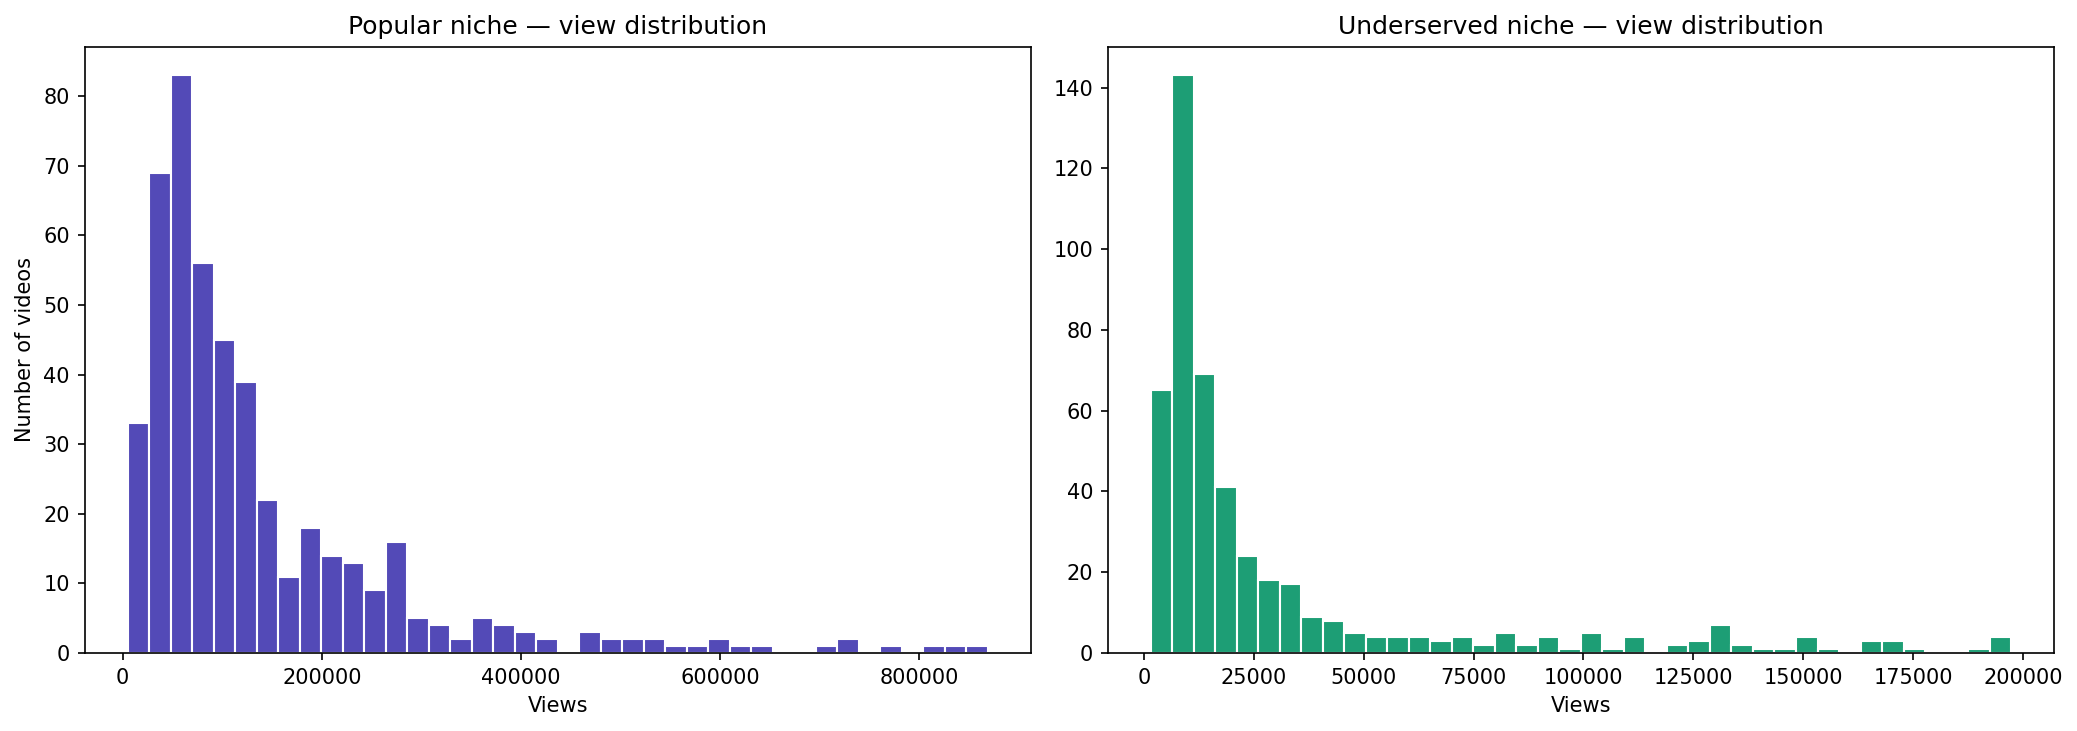
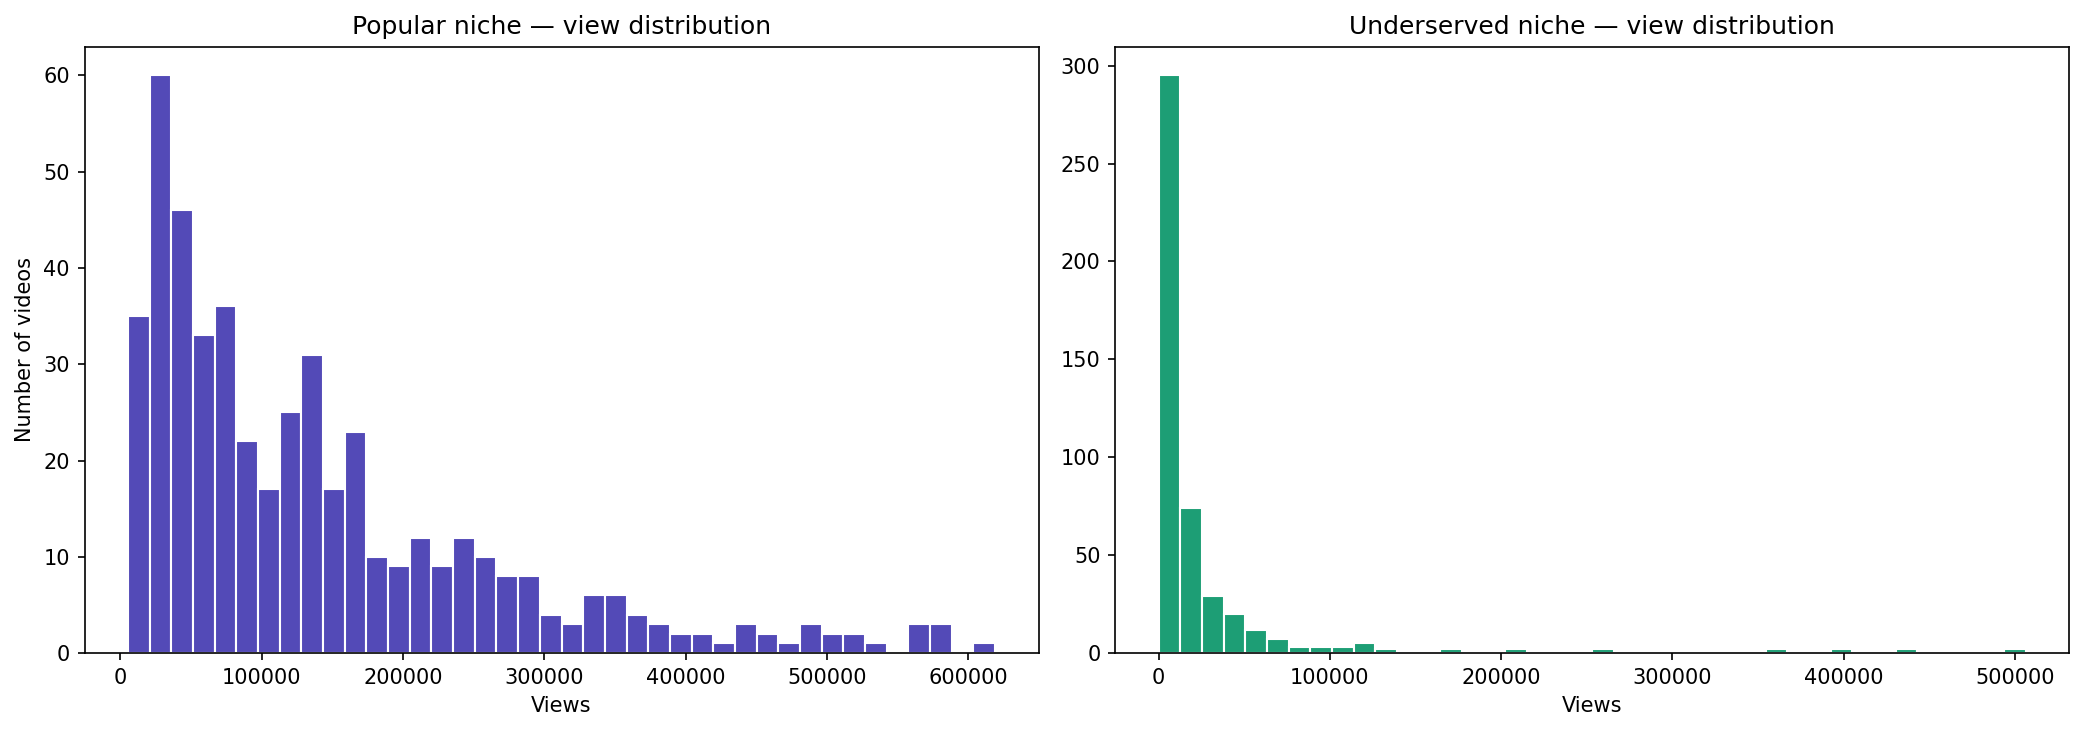
Correct channel IDs and update Step 1 analysis with real YouTube API data

diff --git a/config.py b/config.py
@@ -11,22 +11,22 @@ NICHES = {
         "name": "Personal Finance India",
         "keywords": ["mutual funds India", "save tax India", "SIP investment"],
         "channels": [
-            "UCy3d3hmt2-UKNkPEZqAXahg",  # Pranjal Kamra
-            "UCmA5OxhY5PVpGMvkBUFkMEQ",  # CA Rachana Ranade
-            "UCvr6pNHmkIVe-EBb1Dz-aBw",  # Labour Law Advisor
-            "UC3pzSBV16R1GKBK9V6OXoGw",  # Sharan Hegde
-            "UCXBMblREgIsFUZrKWCqnIaQ",  # Akshat Shrivastava
+            "UCwAdQUuPT6laN-AQR17fe1g",  # Pranjal Kamra
+            "UCe3qdG0A_gr-sEdat5y2twQ",  # CA Rachana Ranade
+            "UCVOTBwF0vnSxMRIbfSE_K_g",  # Labour Law Advisor
+            "UCwVEhEzsjLym_u1he4XWFkg",  # Sharan Hegde
+            "UCqW8jxh4tH1Z1sWPbkGWL4g",  # Akshat Shrivastava
         ]
     },
     "underserved": {
         "name": "India Economy and Data Stories",
         "keywords": ["India economy explained", "India statistics facts", "Indian data stories"],
         "channels": [
-            "UCHqSxMJDLf5CXBbkqzuiGcQ",  # 1Finance
-            "UCBwbY5hGhbMEJRtB9U5JKJA",  # Wion
-            "UC-BaQBDRWqqFTJWz27Xkz5Q",  # Think School
-            "UCVOPQIv7MBiONdO8qTFwVVQ",  # Finology
-            "UCVEFg5XPVbUVfF_8bkZfkNQ",  # Vivek Bindra (for contrast)
+            "UCIfANh2BltdF-XixRwKFRqQ",  # 1Finance
+            "UC_gUM8rL-Lrg6O3adPW9K1g",  # Wion
+            "UCKZozRVHRYsYHGEyNKuhhdA",  # Think School
+            "UCNXapAc8mXTwW82MTncdfzQ",  # Finology
+            "UCR-foyF-C6VuAlwy3KZMkgA",  # Vivek Bindra (for contrast)
         ]
     }
 }